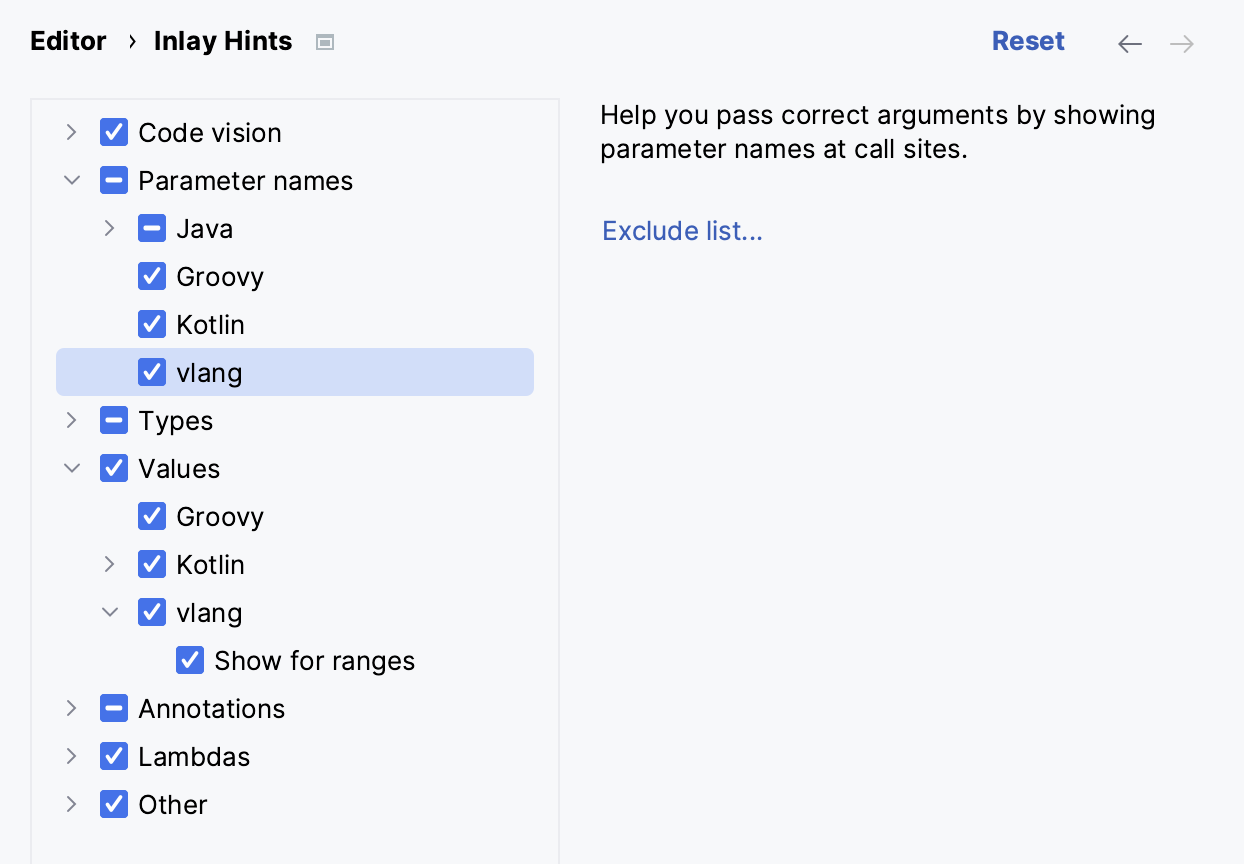
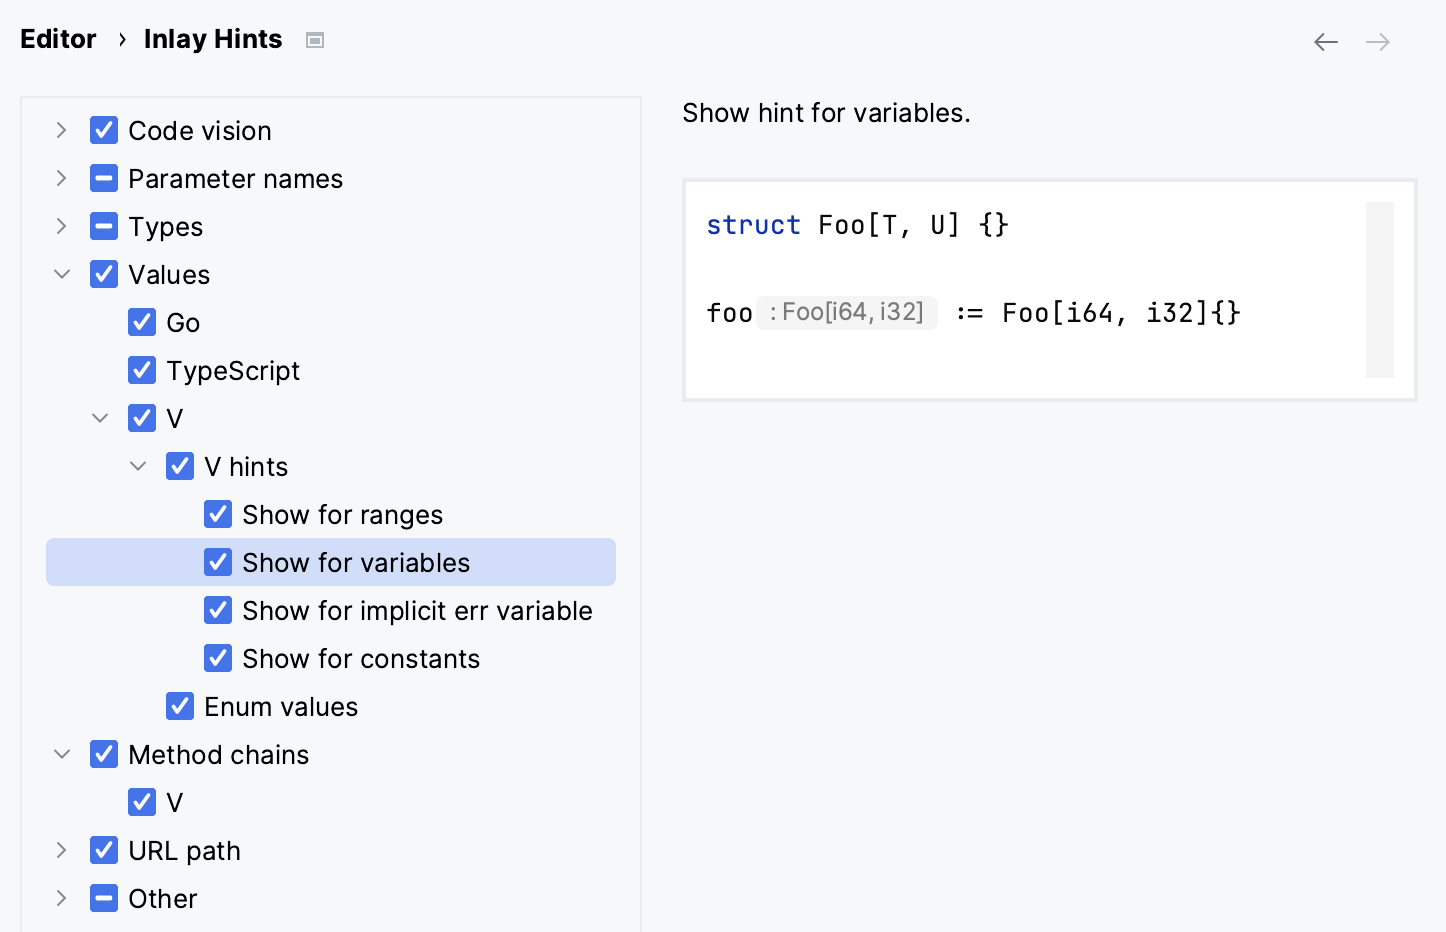
added latest changes

diff --git a/src/topics/Code-reference-info.md b/src/topics/Code-reference-info.md
@@ -14,10 +14,6 @@ You can configure inlay hints in **Settings / Preferences | Editor | Inlay Hints
 
 ![](hints-settings.png){width=700 border-effect="line"}
 
-> At the moment, the tooltip enable/disable setting is not flexible and turns off all tooltips at once. In the future,
-> it is planned to add the ability to configure separately for each type of hints.
-> {type=note}
-
 - **Parameter hints**
 
   Parameter hints show parameter names next to the corresponding arguments in function and method calls. They can help
@@ -26,6 +22,18 @@ You can configure inlay hints in **Settings / Preferences | Editor | Inlay Hints
 - **Type hints**
 
   Inline type hints next to the corresponding variables are another way to help you read through code faster.
+
+- **Evaluated enum values**
+
+  Show the value that the enum field has.
+
+  ![](enum-hints.png){width=700 border-effect="line"}
+
+- **Method chain hints**
+
+  Show the result for each individual method call in the call chain.
+
+  ![](method-chain-hints.png){width=700 border-effect="line"}
 
 ## Type info
 
@@ -36,19 +44,26 @@ Ctrl+Shift+P</kbd>:
 
 ## Parameter info
 
-  The **Parameter Info** popup shows the names of parameters in method and function calls.
-  IntelliJ V automatically shows a popup with all available method signatures within 1 second (1000 milliseconds) after you type an opening bracket in the editor, or select a method from the suggestions list.
-  You can explicitly invoke the popup if it has closed or if your IDE is configured not to show the popup automatically.
-  To do so, press <kbd>Ctrl + P</kbd> (or click **View | Parameter Info**).
+The **Parameter Info** popup shows the names of parameters in method and function calls.
+IntelliJ V automatically shows a popup with all available method signatures within 1 second (1000 milliseconds) after
+you type an opening bracket in the editor, or select a method from the suggestions list.
+You can explicitly invoke the popup if it has closed or if your IDE is configured not to show the popup automatically.
+To do so, press <kbd>Ctrl + P</kbd> (or click **View | Parameter Info**).
 
-  ![](parameter-info.png){width=700 border-effect="line"}
+![](parameter-info.png){width=700 border-effect="line"}
 
 ## Quick documentation
 
 With the **Quick Documentation** popup, you can view documentation for any code element (including library functions)
-right in the editor: just hover over the element or place the caret on it and press <kbd>Ctrl+Q</kbd>.
+right in the editor: just hover over the element or place the caret at it and press <kbd>Ctrl+Q</kbd>.
 
 ![](quick-documentation.png){width=700 border-effect="line"}
+
+> If you don't want the Quick **Documentation popup** to appear on mouse hover, go to
+> **Settings / Preferences | Editor | Code Editing | Quick Documentation** and clear the
+> **Show quick documentation on hover** checkbox. Alternatively, click App actions
+> more in the popup and disable the **Show on Mouse Move** option.
+> {type=note}
 
 ## Quick definition
 

diff --git a/src/topics/Navigation-and-search.md b/src/topics/Navigation-and-search.md
@@ -51,6 +51,9 @@ There are several Go To actions you can use to quickly navigate through your cod
 - **Declaration or Usages** (<kbd>Ctrl+B</kbd>) - jumps to the item's declaration or shows when a list usages when on a
   declaration.
 
+- **Type Declaration** (<kbd>Ctrl+Shift+B</kbd>) - navigates to the type declaration of a variable, field, or constant. 
+  When called for a method, jumps to the declaration of the receiver type.
+
 - **Definition (Implementation)** (<kbd>Ctrl+Alt+B</kbd>) - shows the list of implementations for interfaces. This
   action is also available via a gutter icon:
 

diff --git a/src/topics/Code-generation.md b/src/topics/Code-generation.md
@@ -14,10 +14,6 @@ You can find the full list of V intentions and adjust them if necessary in **Set
 
 ![](intentions-settings.png){width=700 border-effect="line"}
 
-See also full list of V inspections in **Settings / Preferences | Editor | Inspections | V**:
-
-![](inspections-settings.png){width=700 border-effect="line"}
-
 ## Live templates
 
 Use live templates to insert common constructs into your code, such as loops, conditions, various declarations, or print statements. You can explore and customize the list of live templates in **Settings / Preferences | Editor | Live Templates | V**:

diff --git a/src/topics/Minor-editor-features.md b/src/topics/Minor-editor-features.md
@@ -51,3 +51,9 @@ The plugin highlights all recursive calls with a special gutter icon:
 
 ![](recursive-call.png){width=500 border-effect="line"}
 
+## Breadcrumbs
+
+The plugin provides breadcrumbs for the current cursor location.
+It shows the structure back to the file root.
+
+![](breadcrumbs.png){width=700 border-effect="line"}

diff --git a/src/topics/Refactorings.md b/src/topics/Refactorings.md
@@ -1,6 +1,6 @@
 [//]: # (title: Refactorings)
 
-> Refactorings are now in a rudimentary state and will be improved during alpha testing.
+> Refactorings are now in a rudimentary state and will be improved during beta testing.
 > {type=note}
 
 IntelliJ V provides the following refactorings for your V code:
